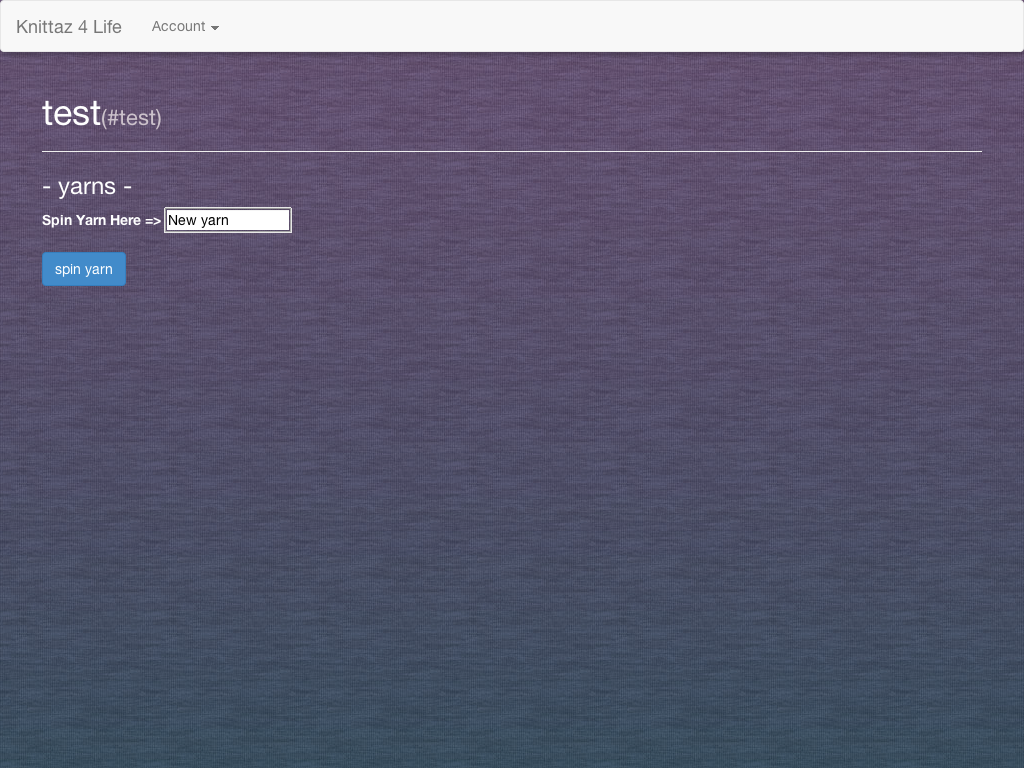
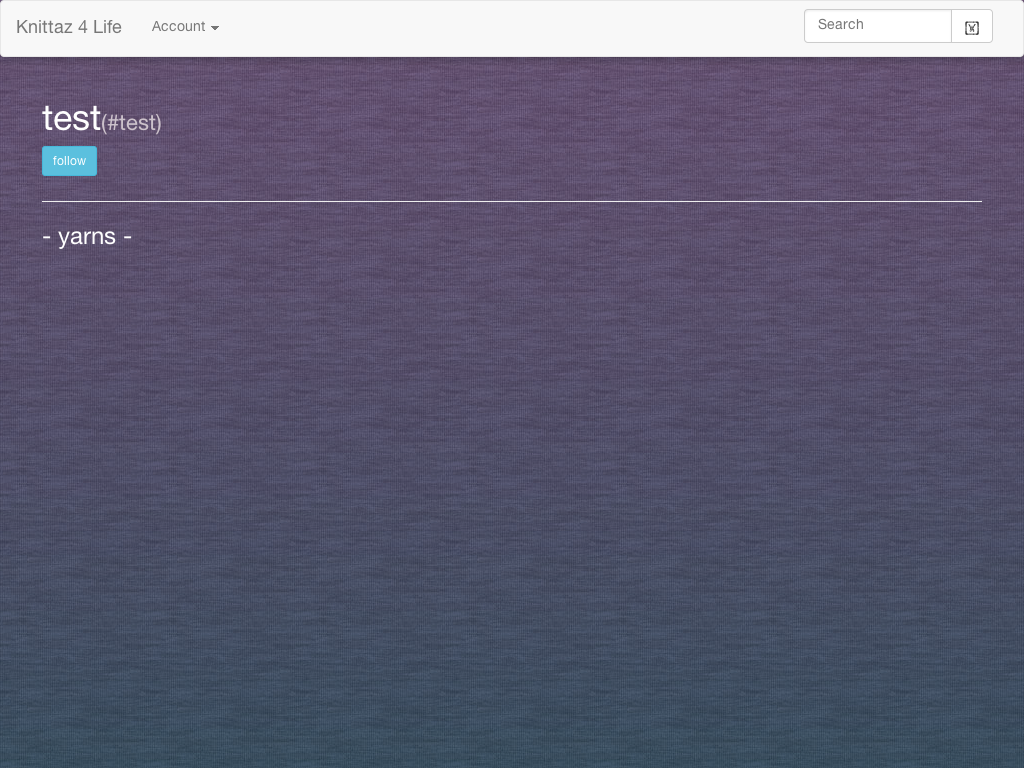
Test for user to follow another user

Changed region(s): [[0.0, 0.0, 1.0, 0.0938], [0.0312, 0.125, 0.2812, 0.375]]

diff --git a/spec/features/user_pages_spec.rb b/spec/features/user_pages_spec.rb
@@ -37,4 +37,23 @@ describe "the sign up process", :js => true do
     expect(page).to have_content 'Spin Yarn Here'
   end
 
+  it "follows another user" do
+    click_link 'Account'
+    click_link 'Logout'
+    click_link 'Account'
+    click_link 'Do you love to knit?'
+    fill_in 'Email', with: 'test2@test.com'
+    fill_in 'Name', with: 'test2'
+    fill_in 'Handle', with: '#test2'
+    fill_in 'Password', with: 'password'
+    fill_in 'Password confirmation', with: 'password'
+    click_button 'Sign up'
+    fill_in 'search-term', with: "test"
+    click_button 'search-btn'
+    click_link '#test'
+    click_link 'follow'
+    
+    expect(page).to have_content 'unfollow'
+  end
+
 end
